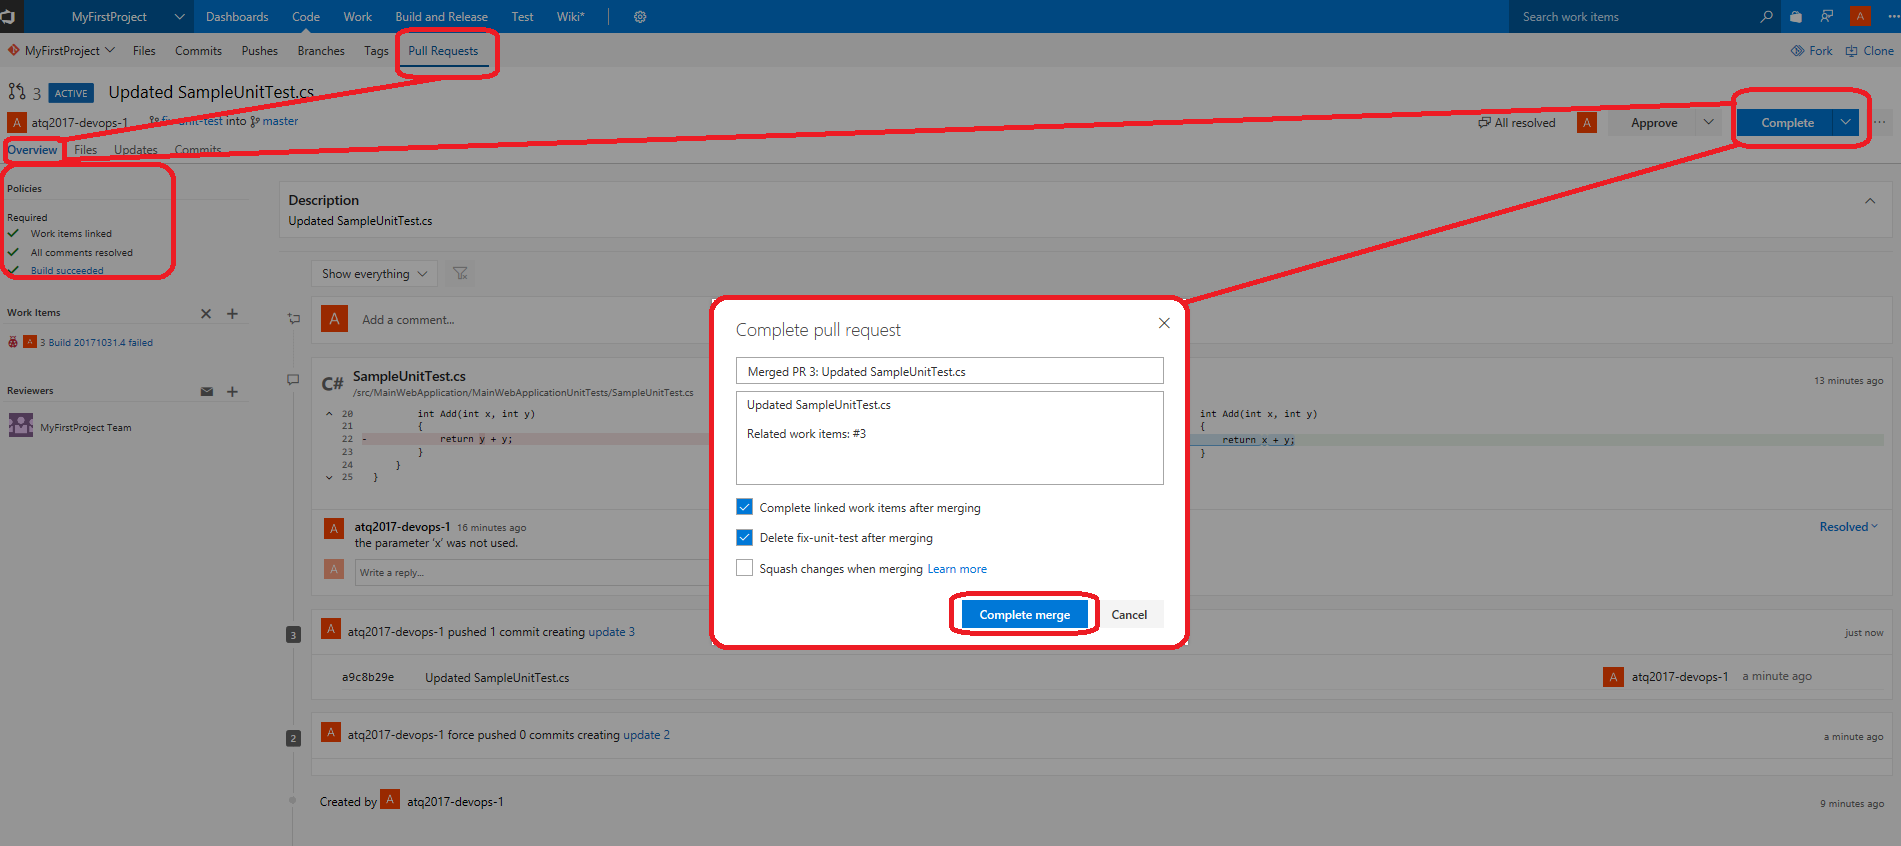
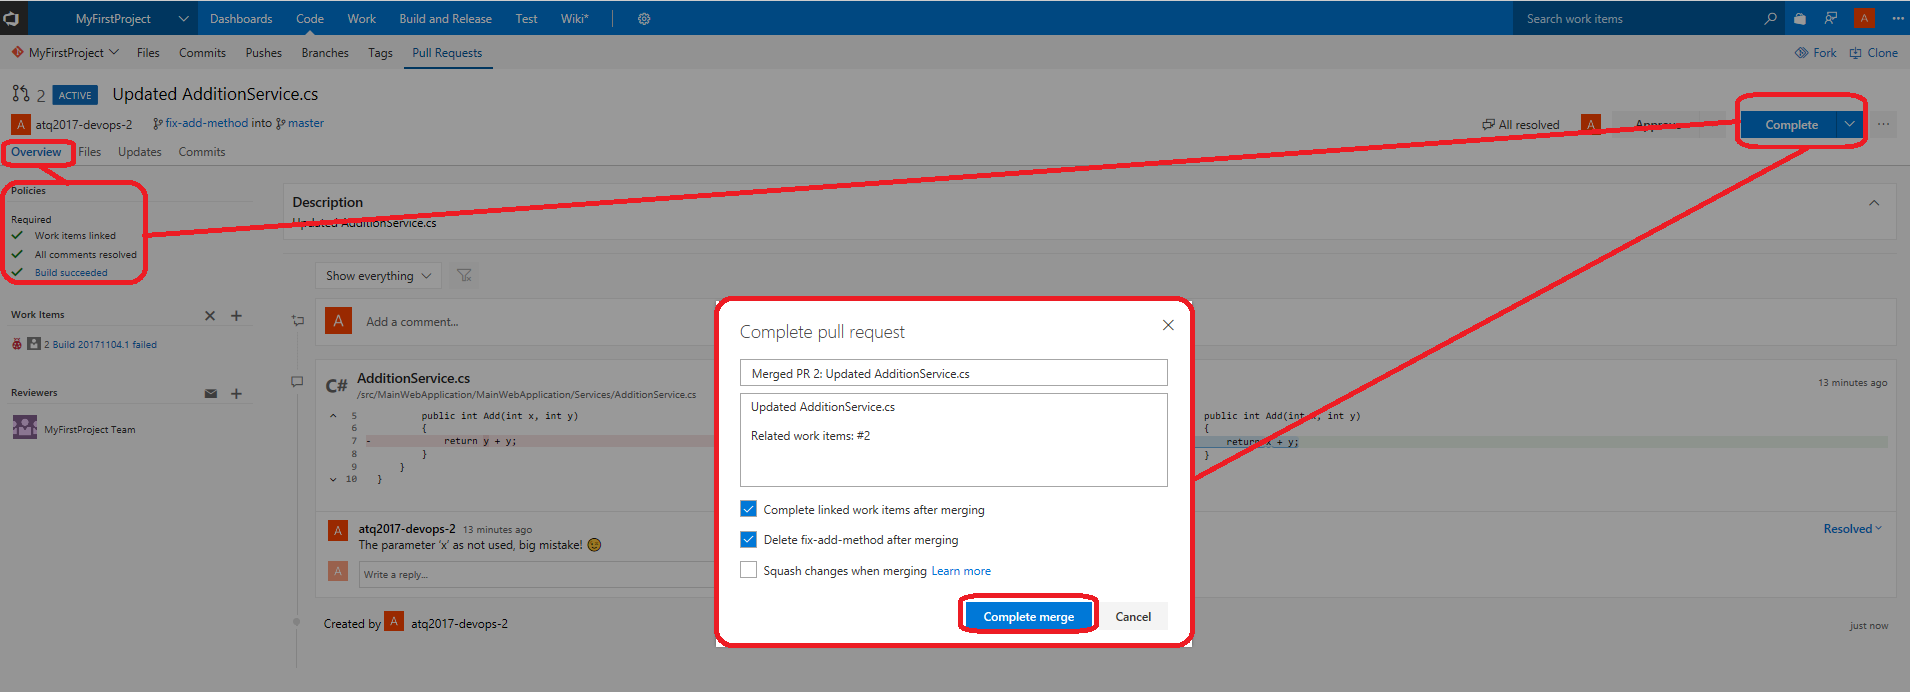
Update and finalize Lab 2 after getting 2nd pass of feedback.

diff --git a/docs/Lab 2 - Continuous Integration/README.md b/docs/Lab 2 - Continuous Integration/README.md
@@ -2,7 +2,7 @@ Previous lab: [Lab 1 - Source control](../Lab%201%20-%20Source%20control/README.
 
 # Lab 2 - Continuous Integration
 
-Duration: 45 min
+Duration: 30 min
 
 ![Develop - Build - Overview](./imgs/Develop-Build-Overview.PNG)
 
@@ -23,13 +23,13 @@ You will go through 4 main sections in this lab:
 
 - Create/Import the VSTS Build definition and expose the "app" artifact
 - Update the "master" branch policies to validate code by pre-merging and building PR changes
-- Fix the unit test issue by submitting a new branch and pull request
+- Fix the unit test issue by submitting a new pull request
 - Import tasks group to expose the "infra" and "ui-tests" artifacts
 
 ## Create the VSTS Build definition and expose the "app" artifact
 
-1. Go to your VSTS account `https://<yourvstsaccount.visualstudio.com` and open your VSTS project for this lab
-2. Navigate to the "Build" sub-tab of the "Build and Release" tab and click on the "Import" button on the top right hand corner to import the file below. Copy/paste this path into the "File name" field and then click on "Open" and finally "Import":
+1. Go to your VSTS account `https://<yourvstsaccount.visualstudio.com` and open your VSTS project for this lab. *For the Agile Tour Quebec 2017, checkout your stiker.*
+2. Navigate to the **Build and Release** > **Build** tab and click on the **Import** button on the top right hand corner to import the file below. Copy/paste this path into the **File name** field and then click on **Open** and finally **Import**:
 
 `
 https://raw.githubusercontent.com/mathieu-benoit/DevOpsOnAzureLab/master/docs/Lab%202%20-%20Continuous%20Integration/CI-BuildDefinition.json
@@ -37,63 +37,66 @@ https://raw.githubusercontent.com/mathieu-benoit/DevOpsOnAzureLab/master/docs/La
 
 ![VSTSBuild - New Definition](./imgs/VSTSBuild-NewDefinition.PNG)
 
-3. You will land on the "Tasks" tab of the Build definition imported where you will see the default tasks to build an ASP.NET Core web app and expose its associated package ready to be deployed. Here, just change the "Name" to `CI`:
+3. Once the Build definition imported, you will land on the **Tasks** > **Process** step, change the **Name** field to `CI`:
 
 ![VSTSBuild - Setup Definition](./imgs/VSTSBuild-SetupDefinition.PNG)
 
-4. Navigate to the "Trigger" tab of this Build definition page and enable the "Trigger status" of the "Continuous Integration" section.
+4. Then, you will need to click on the **Get sources** step to "resolve" the error `Some settings need attention`. You don't have anything to do more than just click on this step to resolve the error.
+
+![VSTSBuild - Resolve Get Sources](./imgs/VSTSBuild-ResolveGetSources.PNG)
+
+5. Navigate to the **Trigger** tab of this Build definition page and enable the **Trigger status** of the **Continuous Integration** section.
 
 ![VSTSBuild - CI Trigger](./imgs/VSTSBuild-CITrigger.PNG)
 
-5. Navigate to the "Options" tab of this Build definition page and enable the "Create work item on failure" section.
+6. Navigate to the **Options** tab of this Build definition page and enable the **Create work item on failure** section.
 
 ![VSTSBuild - Create WorkItem On Failure](./imgs/VSTSBuild-CreateWorkItemOnFailure.PNG)
 
-6. Then click on the "Save & queue" toolbar button. The "Save build definition and queue" will popup and just click on the "Save & queue" button.
-7. After ~2 min this build should failed because of a unit test failure:
+7. Then click on the **Save & queue** toolbar button (top right hand corner). The **Save build definition and queue** will popup and just click on the **Save & queue** button.
+8. After ~2 min this build should failed because of a unit test failure:
 
 ![VSTSBuild - First Build Failed](./imgs/VSTSBuild-FirstBuildFailed.PNG)
 
-8. Here you should be able to see the different notifications related to this failure:
-
-- In the current and default "Iteration 1" of the VSTS Work feature, you should see a new Bug Work Item just created.
-- In Slack, you should see 2 notifications: 1 for the Build failed in the #build channel and 1 other for the Work Item created in the #work channel.
+*Note: Here, if you did the associated setup in the previous lab, you should be able to see the 2 different notifications related to this failure in Slack: 1 for the Build failed in the `#build` channel and 1 other for the Work Item created in the `#work` channel.*
 
 ## Update the "master" branch policies to validate code by pre-merging and building PR changes
 
-9. Now we have a build definition created, let's adjust the "master" branch policies to reinforce quality check while creating and managing new Pull Request on branches. For that, go to the "master" branch policies page (like you did with the [previous lab](../Lab%201%20-%20Source%20control/README.md)) and click on the "Add build policy" to then select the `CI` Build definition we just created. Click on "Save" on the pop-up and finally on the "Save changes" toolbar button of the "Policies" page:
+9. Now we have a build definition created, let's adjust the `master` branch policies to reinforce quality check while creating and managing new Pull Request on branches. For that, go to the `master` branch policies page (like you did with the [previous lab](../Lab%201%20-%20Source%20control/README.md)) and click on the **Add build policy** to then select the `CI` Build definition we just created. Click on **Save** on the pop-up:
 
 ![VSTSCode - Build Policy On PR](./imgs/VSTSCode-BuildPolicyOnPR.PNG)
 
-## Fix the unit test issue by submitting a new branch and pull request
+10. Then, click on the **Save changes** toolbar button at the top of this page.
 
-10. Go to the VSTS "Work" main tab to create a new branch based on the master branch. Click on "New branch" action and name it as `fix-unit-test` and then click on the "Create branch" button:
+## Fix the unit test issue by submitting a new pull request
+
+11. Go to the VSTS **Work** main tab to create a new branch based on the `master` branch. Click on **New branch** action and name it as `fix-add-method` and then click on the **Create branch** button:
 
 ![VSTSCode  - Create New Branch](./imgs/VSTSCode-CreateNewBranch.PNG)
 
-11. Navigate to the `src/MainWebApplication/MainWebApplicationUnitTests/SampleUnitTest.cs` file on this `fix-unit-test` branch. Click on the "Edit" button (top right hand corner) and then update the line 22 by replacing `return y + y;` by `return x + y;` (Yeah, big mistake! ;)). Click on the "Commit..." button (top right hand corner again) and on the "Commit" button once poped up.
+12. Navigate to the `src/MainWebApplication/MainWebApplication/Services/AdditionService.cs` file on this `fix-add-method` branch. Click on the **Edit** button (top right hand corner) and then update the line 7 by replacing `return y + y;` by `return x + y;` (Yeah, big mistake! ;)). Click on the **Commit...** button (top right hand corner again) and on the **Commit** button once poped up.
 
 ![VSTSCode - Edit And Commit Code](./imgs/VSTSCode-EditAndCommitCode.PNG)
 
-12. You will be invited to create a Pull Request based on this commit on this branch. Let's proceed to land on the create a Pull Request page:
+13. You will be invited to create a Pull Request based on this commit on this branch. Let's proceed to land on the New Pull Request page:
 
 ![VSTSCode - Create Pull Request](./imgs/VSTSCode-CreatePullRequest.PNG)
 
-13. As a PR/code review, comment the line updated on the right hand side:
+14. As a PR/code review, comment the line updated on the right hand side:
 
 ![VSTSCode - PR Code Review](./imgs/VSTSCode-PRCodeReview.PNG)
 
-14. On the "Overview" tab of this PR you should see the status of the current policies: 1 Build should be in progress and "Not all comments resolved". By waiting the end of the current build, let's "Resolve" the comment:
+15. On the **Overview** tab of this PR you should see the status of the current policies: 1 Build should be in progress and **Not all comments resolved**. By waiting the end of the current build, let's **Resolve** the comment:
 
 ![VSTSCode - Pull Request Overview](./imgs/VSTSCode-PullRequestOverview.PNG)
 
-15. Once the Build is completed successfuly (you are supposing to resolve the unit test issue in this PR, the build should pass), you will be able to "Complete" this PR. A new build will be triggered after the merge into master, it should be completed successfuly. Furthermore, you should see new Slack notifications (Code pushed + Build completed).
+16. Once the Build is completed successfuly (you are supposing to resolve the unit test issue in this PR, the build should pass), you will be able to **Complete** this PR. A new build will be triggered after the merge into master, it should be completed successfuly. Furthermore, you should see new Slack notifications (Code pushed + Build completed).
 
 ![VSTSCode - Complete Pull Request](./imgs/VSTSCode-CompletePullRequest.PNG)
 
 ## Import tasks group to expose the "infra" and "ui-tests" artifacts
 
-16. Navigate to the "Task Groups" sub-tab of the "Build and Release" tab and click on the "Import" button on the top left hand corner to import the file below. Copy/paste this path into the "File name" field and then click on "Open" and finally "Import":
+17. Navigate to the **Build and Release** > **Task Groups** tab and click on the **Import** button on the top left hand corner to import the file below. Copy/paste this path into the **File name** field and then click on **Open** and finally **Import**:
 
 `
 https://raw.githubusercontent.com/mathieu-benoit/DevOpsOnAzureLab/master/docs/Lab%202%20-%20Continuous%20Integration/ExposeInfraAndUITestsArtifacts-TaskGroupDefinition.json
@@ -101,15 +104,19 @@ https://raw.githubusercontent.com/mathieu-benoit/DevOpsOnAzureLab/master/docs/La
 
 ![VSTSBuild - Import Tasks Group](./imgs/VSTSBuild-ImportTasksGroup.PNG)
 
-17. Once imported, just rename this Task Group as `ExposeInfraAndUITestsArtifacts` and you should see the 4 tasks preconfigured in it:
+18. Once imported, just rename this Task Group as `ExposeInfraAndUITestsArtifacts` and you should see the 4 tasks preconfigured in it:
 
 ![VSTSBuild - Tasks Group Imported](./imgs/VSTSBuild-TasksGroupImported.PNG)
 
-18. Go to the "Builds" sub-tab of the "Build and Release" tab, open your "CI" Build definition and add an instance of the Tasks Group just imported. Once added, let's rename this step as `Expose "infra" and "ui-tests" Artifacts`:
+19. Go to the **Build and Release** > **Build** tab, and open your **CI** Build definition like illustrated below:
+
+ ![VSTSBuild - Edit Definition](./imgs/VSTSBuild-EditDefinition.PNG)
+
+20. Add an instance of the Tasks Group just imported. Once added, let's rename this step as `Expose "infra" and "ui-tests" Artifacts`:
 
 ![VSTSBuild - Add Tasks Group](./imgs/VSTSBuild-AddTasksGroup.PNG)
 
-20. "Save and Queue" this build. Once it will be successfully completed you should see the 3 artifacts below and should see the Slack notifications as well:
+21. "Save and Queue" this build. Once it will be successfully completed you should see the 3 artifacts below and should see the Slack notifications as well:
 
 ![VSTSBuild - Artifacts](./imgs/VSTSBuild-Artifacts.PNG)
 
